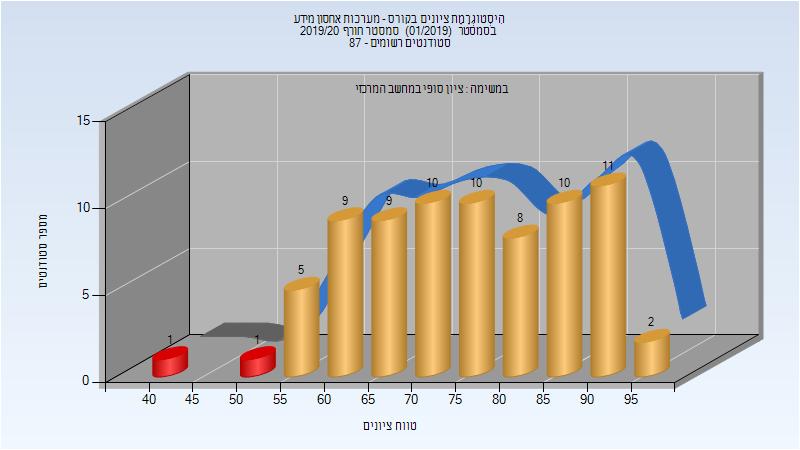
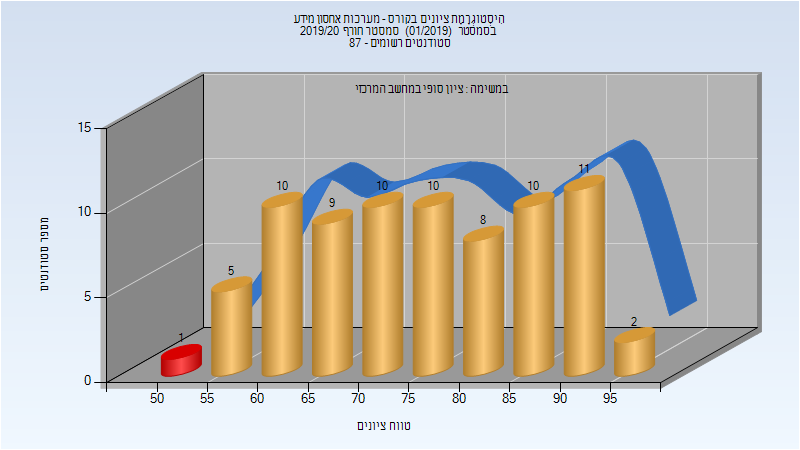
Deploy michael-maltsev/technion-histograms to github.com/michael-maltsev/technion-histograms.git:gh-pages

diff --git a/236313/index.html b/236313/index.html
@@ -5,7 +5,7 @@
     <link rel="shortcut icon" href="https://michael-maltsev.github.io/technion-histograms/favicon.ico">
     <meta name="viewport" content="width=device-width, initial-scale=1">
     <meta name="google-site-verification" content="Nps3LEfDaHCQolJfA4KJfgEA1c4hv6R04bCUijxBwdY" />
-    <title>236322 - מערכות אחסון מידע | technion-histograms</title>
+    <title>236313 - תורת הסיבוכיות | technion-histograms</title>
     <style>
       /* stolen from thebestmotherfucking.website */
       body{font-family:Open Sans,Arial;color:#454545;font-size:16px;margin:2em auto;max-width:800px;padding:1em;line-height:1.4;text-align:justify}html.contrast body{color:#050505}html.contrast blockquote{color:#11151a}html.contrast blockquote:before{color:#262626}html.contrast a{color:#0051c9}html.contrast a:visited{color:#7d013e}html.contrast span.wr{color:#800}html.contrast span.mfw{color:#4d0000}@media screen and (prefers-color-scheme:light){html.inverted{background-color:#000}html.inverted body{color:#d9d9d9}html.inverted div#contrast,html.inverted div#invmode{color:#fff;background-color:#000}html.inverted blockquote{color:#d3c9be}html.inverted blockquote:before{color:#b8b8b8}html.inverted a{color:#00a2e7}html.inverted a:visited{color:#ca1a70}html.inverted span.wr{color:#d24637}html.inverted span.mfw{color:#b00000}html.inverted.contrast{background-color:#000}html.inverted.contrast body{color:#fff}html.inverted.contrast div#contrast,html.inverted.contrast div#invmode{color:#fff;background-color:#000}html.inverted.contrast blockquote{color:#f8f6f5}html.inverted.contrast blockquote:before{color:#e5e5e5}html.inverted.contrast a{color:#44c7ff}html.inverted.contrast a:visited{color:#e9579e}html.inverted.contrast span.wr{color:#db695d}html.inverted.contrast span.mfw{color:#ff0d0d}}@media (prefers-color-scheme:dark){html:not(.inverted){background-color:#000}html:not(.inverted) body{color:#d9d9d9}html:not(.inverted) div#contrast,html:not(.inverted) div#invmode{color:#fff;background-color:#000}html:not(.inverted) blockquote{color:#d3c9be}html:not(.inverted) blockquote:before{color:#b8b8b8}html:not(.inverted) a{color:#00a2e7}html:not(.inverted) a:visited{color:#ca1a70}html:not(.inverted) span.wr{color:#d24637}html:not(.inverted) span.mfw{color:#b00000}html:not(.inverted).contrast{background-color:#000}html:not(.inverted).contrast body{color:#fff}html:not(.inverted).contrast div#contrast,html:not(.inverted).contrast div#invmode{color:#fff;background-color:#000}html:not(.inverted).contrast blockquote{color:#f8f6f5}html:not(.inverted).contrast blockquote:before{color:#e5e5e5}html:not(.inverted).contrast a{color:#44c7ff}html:not(.inverted).contrast a:visited{color:#e9579e}html:not(.inverted).contrast span.wr{color:#db695d}html:not(.inverted).contrast span.mfw{color:#ff0d0d}html.inverted html{background-color:#fefefe}}a{color:#07a}a:visited{color:#941352}.noselect{-webkit-touch-callout:none;-webkit-user-select:none;-khtml-user-select:none;-moz-user-select:none;-ms-user-select:none;user-select:none}span.citneed{vertical-align:top;font-size:.7em;padding-left:.3em}small{font-size:.4em}p.st{margin-top:-1em}div.fancyPositioning div.picture-left{float:left;width:40%;overflow:hidden;margin-right:1em}div.fancyPositioning div.picture-left img{width:100%}div.fancyPositioning div.picture-left figure{margin:10px}div.fancyPositioning div.picture-left figure figcaption{font-size:.7em}div.fancyPositioning div.tleft{float:left;width:55%}div.fancyPositioning div.tleft p:first-child{margin-top:0}div.fancyPositioning:after{display:block;content:"";clear:both}ul li img{height:1em}blockquote{color:#456;margin-left:0;margin-top:2em;margin-bottom:2em}blockquote span{float:left;margin-left:1rem;padding-top:1rem}blockquote author{display:block;clear:both;font-size:.6em;margin-left:2.4rem;font-style:oblique}blockquote author:before{content:"- ";margin-right:1em}blockquote:before{font-family:Times New Roman,Times,Arial;color:#666;content:open-quote;font-size:2.2em;font-weight:600;float:left;margin-top:0;margin-right:.2rem;width:1.2rem}blockquote:after{content:"";display:block;clear:both}@media screen and (max-width:500px){body{text-align:left}div.fancyPositioning div.picture-left,div.fancyPositioning div.tleft{float:none;width:inherit}blockquote span{width:80%}blockquote author{padding-top:1em;width:80%;margin-left:15%}blockquote author:before{content:"";margin-right:inherit}}span.visited{color:#941352}span.visited-maroon{color:#85144b}span.wr{color:#c0392b;font-weight:600;text-decoration:underline}div#contrast{color:#000;top:10px}div#contrast,div#invmode{cursor:pointer;position:fixed;right:10px;font-size:.8em;text-decoration:underline;-webkit-touch-callout:none;-webkit-user-select:none;-khtml-user-select:none;-moz-user-select:none;-ms-user-select:none;user-select:none}div#invmode{color:#fff;background-color:#000;top:34px;padding:2px 5px}@media screen and (max-width:1080px){div#contrast,div#invmode{position:absolute}}span.sb{color:#00e}span.sb,span.sv{cursor:not-allowed}span.sv{color:#551a8b}span.foufoufou{color:#444;font-weight:700}span.foufoufou:before{content:"";display:inline-block;width:1em;height:1em;margin-left:.2em;margin-right:.2em;background-color:#444}span.foufivfoufivfoufiv{color:#454545;font-weight:700}span.foufivfoufivfoufiv:before{content:"";display:inline-block;width:1em;height:1em;margin-left:.2em;margin-right:.2em;background-color:#454545}span.mfw{color:#730000}a.kopimi,a.kopimi img.kopimi{display:block;margin-left:auto;margin-right:auto}a.kopimi img.kopimi{height:2em}p.fakepre{font-family:monospace;font-size:.9em}
@@ -20,8 +20,8 @@
     </style>
   </head>
   <body>
-    <h1>236322 - מערכות אחסון מידע</h1>
-<h2>חורף 2018-2019</h2>
+    <h1>236313 - תורת הסיבוכיות</h1>
+<h2>אביב 2020</h2>
 <table>
 <thead>
 <tr>
@@ -31,13 +31,13 @@
 </thead>
 <tbody>
 <tr>
-<td>ידגר גלה</td>
+<td>קושילביץ איל</td>
 <td>מרצה - אחראי מקצוע</td>
 </tr>
 </tbody>
 </table>
 <h3>סופי</h3>
-<p><img src="201801/Finals.png" alt="201801 Finals" /></p>
+<p><img src="201902/Finals.png" alt="201902 Finals" /></p>
 <table>
 <thead>
 <tr>
@@ -52,54 +52,13 @@
 </thead>
 <tbody>
 <tr>
-<td>44</td>
-<td>40/4</td>
-<td>91</td>
-<td>42</td>
+<td>19</td>
+<td>19/0</td>
 <td>100</td>
-<td>72.977</td>
-<td>74</td>
-</tr>
-</tbody>
-</table>
-<h2>חורף 2019-2020</h2>
-<table>
-<thead>
-<tr>
-<th>איש סגל</th>
-<th>תפקיד</th>
-</tr>
-</thead>
-<tbody>
-<tr>
-<td>ידגר גלה</td>
-<td>מרצה - אחראי מקצוע</td>
-</tr>
-</tbody>
-</table>
-<h3>סופי</h3>
-<p><img src="201901/Finals.png" alt="201901 Finals" /></p>
-<table>
-<thead>
-<tr>
-<th>סטודנטים</th>
-<th>עברו/נכשלו</th>
-<th>אחוז עוברים</th>
-<th>ציון מינימלי</th>
-<th>ציון מקסימלי</th>
-<th>ממוצע</th>
-<th>חציון</th>
-</tr>
-</thead>
-<tbody>
-<tr>
-<td>76</td>
-<td>75/1</td>
-<td>99</td>
-<td>52</td>
-<td>99</td>
-<td>76.184</td>
-<td>76</td>
+<td>65</td>
+<td>97</td>
+<td>82.947</td>
+<td>80</td>
 </tr>
 </tbody>
 </table>

diff --git a/index.html b/index.html
@@ -1120,6 +1120,7 @@
 <a href="236299/">236299 - מבוא לעיבוד שפות טבעיות</a><br />
 <a href="236306/">236306 - גרפים מקריים</a><br />
 <a href="236309/">236309 - מבוא לתורת הצפינה</a><br />
+<a href="236313/">236313 - תורת הסיבוכיות</a><br />
 <a href="236315/">236315 - שיטות אלגבריות במדעי המחשב</a><br />
 <a href="236319/">236319 - שפות תכנות</a><br />
 <a href="236322/">236322 - מערכות אחסון מידע</a><br />

diff --git a/236496/index.html b/236496/index.html
@@ -52,13 +52,13 @@
 </thead>
 <tbody>
 <tr>
-<td>47</td>
-<td>45/2</td>
-<td>96</td>
+<td>50</td>
+<td>49/1</td>
+<td>98</td>
 <td>44</td>
 <td>100</td>
-<td>83.532</td>
-<td>85</td>
+<td>84.2</td>
+<td>85.5</td>
 </tr>
 </tbody>
 </table>

diff --git a/234312/index.html b/234312/index.html
@@ -38,12 +38,12 @@
 </thead>
 <tbody>
 <tr>
-<td>61</td>
-<td>61/0</td>
+<td>63</td>
+<td>63/0</td>
 <td>100</td>
-<td>81</td>
+<td>84</td>
 <td>100</td>
-<td>91.984</td>
+<td>92.635</td>
 <td>93</td>
 </tr>
 </tbody>

diff --git a/236313/README.md b/236313/README.md
@@ -1,6 +1,10 @@
-# 234312 - פרויקט שנתי בהנדסת תוכנה-שלב ב'
+# 236313 - תורת הסיבוכיות
 
 ## אביב 2020
+
+| איש סגל | תפקיד |
+| ---- | ---- |
+| קושילביץ איל | מרצה - אחראי מקצוע |
 
 ### סופי
 
@@ -8,5 +12,5 @@
 
 | סטודנטים | עברו/נכשלו | אחוז עוברים | ציון מינימלי | ציון מקסימלי | ממוצע | חציון |
 | ---- | ---- | ---- | ---- | ---- | ---- | ---- |
-| 63 | 63/0 | 100 | 84 | 100 | 92.635 | 93 |
+| 19 | 19/0 | 100 | 65 | 97 | 82.947 | 80 |
 

diff --git a/README.md b/README.md
@@ -1099,6 +1099,7 @@
 [236299 - מבוא לעיבוד שפות טבעיות](236299/)  
 [236306 - גרפים מקריים](236306/)  
 [236309 - מבוא לתורת הצפינה](236309/)  
+[236313 - תורת הסיבוכיות](236313/)  
 [236315 - שיטות אלגבריות במדעי המחשב](236315/)  
 [236319 - שפות תכנות](236319/)  
 [236322 - מערכות אחסון מידע](236322/)  

diff --git a/236496/README.md b/236496/README.md
@@ -12,5 +12,5 @@
 
 | סטודנטים | עברו/נכשלו | אחוז עוברים | ציון מינימלי | ציון מקסימלי | ממוצע | חציון |
 | ---- | ---- | ---- | ---- | ---- | ---- | ---- |
-| 47 | 45/2 | 96 | 44 | 100 | 83.532 | 85 |
+| 50 | 49/1 | 98 | 44 | 100 | 84.2 | 85.5 |
 

diff --git a/236322/README.md b/236322/README.md
@@ -26,5 +26,5 @@
 
 | סטודנטים | עברו/נכשלו | אחוז עוברים | ציון מינימלי | ציון מקסימלי | ממוצע | חציון |
 | ---- | ---- | ---- | ---- | ---- | ---- | ---- |
-| 76 | 74/2 | 97 | 42 | 99 | 75.934 | 76 |
+| 76 | 75/1 | 99 | 52 | 99 | 76.184 | 76 |
 
